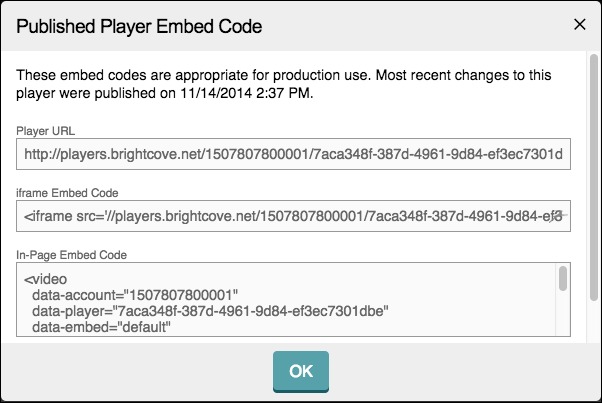
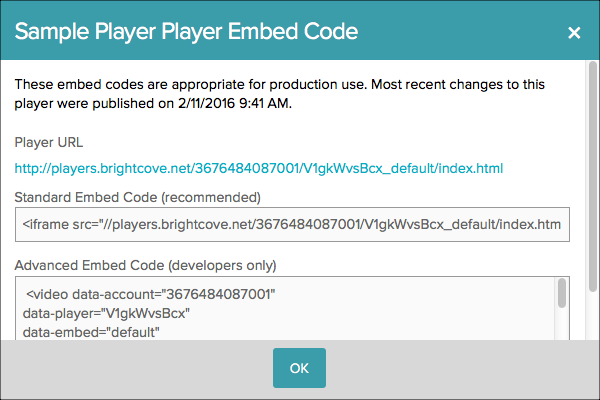
update BC Player QS for Perform

diff --git a/en/perform/brightcove-player/getting-started/quick-start-bc-player.html b/en/perform/brightcove-player/getting-started/quick-start-bc-player.html
@@ -121,7 +121,8 @@
           <li>Click <strong>Publish</strong> and then <strong>Publish</strong> again to confirm the player publish.</li>
           <li>Confirm that the publish was successful.
             <div>
-                <img alt="" src="http://img.brightcove.com/node14057-publish-ok.png" />
+<!--                <img alt="" src="http://img.brightcove.com/node14057-publish-ok.png" />-->
+				<img alt="publish-now dialog" src="assets/publish-ok.png" />
             </div></li>
           <li>Click <strong>Embed Code &amp; URL</strong> and click the <strong>Published Player</strong> link. The Published Player Embed Code dialog will display.
               <div>

diff --git a/en/video-cloud/brightcove-player/getting-started/quick-start-bc-player.html b/en/video-cloud/brightcove-player/getting-started/quick-start-bc-player.html
@@ -121,7 +121,8 @@
           <li>Click <strong>Publish</strong> and then <strong>Publish</strong> again to confirm the player publish.</li>
           <li>Confirm that the publish was successful.
             <div>
-                <img alt="" src="http://img.brightcove.com/node14057-publish-ok.png" />
+<!--                <img alt="" src="http://img.brightcove.com/node14057-publish-ok.png" />-->
+				<img alt="publish-now dialog" src="assets/publish-ok.png" />
             </div></li>
           <li>Click <strong>Embed Code &amp; URL</strong> and click the <strong>Published Player</strong> link. The Published Player Embed Code dialog will display.
               <div>
